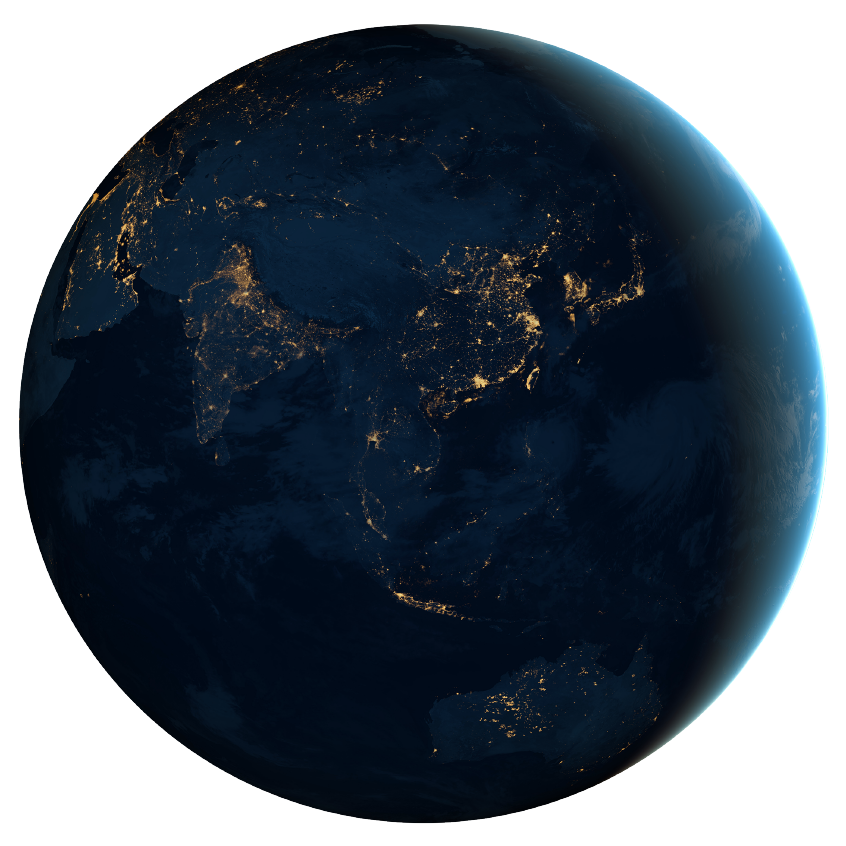
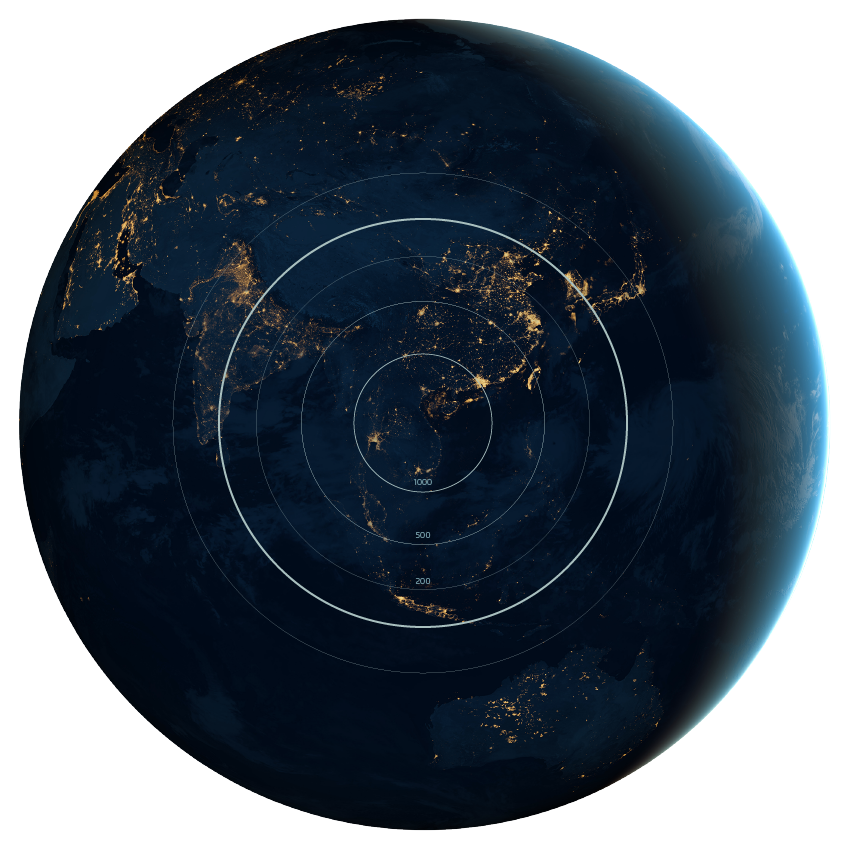
finish v1.0

diff --git a/components/pages/datacenter/datacenter.js b/components/pages/datacenter/datacenter.js
@@ -67,7 +67,7 @@ module.exports = {
                 device_running: params.device_running,
                 device_stop: params.device_stop,
                 device_broken: params.device_broken,
-                energy: params.energy,
+                energy:parseFloat(params.energy).toFixed(1),
                 unit_engergy: params.unit_engergy,
                 airC_engergy: params.airC_engergy
             };
@@ -84,6 +84,7 @@ module.exports = {
                 { src: __uri('./img/industry/chuanbo.png'), name: '船舶' },
                 { src: __uri('./img/industry/guidaojiaotong.png'), name: '轨道运输' },
                 { src: __uri('./img/industry/jiudian.png'), name: '酒店' },
+                  { src: __uri('./img/industry/other.png'), name: '其它' },
             ];
 
             // 设备类型应用
@@ -99,6 +100,7 @@ module.exports = {
                 { src: __uri('./img/devicetype/shipinanfang.png'), name: '视频安防' },
                 { src: __uri('./img/devicetype/tongpaifeng.png'), name: '通排风' },
                 { src: __uri('./img/devicetype/menjin.png'), name: '门禁' },
+                  { src: __uri('./img/industry/other.png'), name: '其它' },
             ];
 
             var tpl = __inline('datacenter.handlebars');
@@ -123,7 +125,7 @@ module.exports = {
             var left = new dashchart({
                 domId: "left_dash",
                 subred: subcolor,
-                label: "设备", value: dtotal, total: params.devicenum, unit: "个",
+                label: "设备总数", value: dtotal, total: params.devicenum, unit: "个",
                 sublabel: "完好率", subvalue: params.device_good_rate, subunit: "%"
             });
             var ttotal = params.device_load * params.device_load_rate / 100;
@@ -135,7 +137,7 @@ module.exports = {
             var right = new dashchart({
                 domId: "right_dash",
                 subred: subcolor,
-                label: "负荷", value: ttotal, total: params.device_load, unit: "kw",
+                label: "当前负荷", value: ttotal, total: params.device_load, unit: "kw",
                 sublabel: "负载率", subvalue: params.device_load_rate, subunit: "%"
             });
         }

diff --git a/components/pages/datacenter/modules/dashchart.js b/components/pages/datacenter/modules/dashchart.js
@@ -143,7 +143,7 @@ dashChart.prototype.drawText = function (r, circleColor) {
         fill: "#387A84",
         "text-anchor": "middle"
     });
-    r.text(option.width / 2 + 75, option.height / 2 - 20, option.unit).attr({
+    r.text(option.width / 2 + 78, option.height / 2 - 20, option.unit).attr({
         font: "12px 微软雅黑, Arial",
         fill: "#387A84",
         "text-anchor": "middle"
@@ -155,7 +155,7 @@ dashChart.prototype.drawText = function (r, circleColor) {
     });
 
     // sub data
-    r.text(option.width / 2 - 30, option.height / 2 + 32 + 20, option.sublabel).attr({
+    r.text(option.width / 2 - 25, option.height / 2 + 32 + 20, option.sublabel).attr({
         font: "12px 微软雅黑, Arial",
         fill: "#387A84",
         "text-anchor": "middle"
@@ -164,12 +164,12 @@ dashChart.prototype.drawText = function (r, circleColor) {
     if (option.subred) {
         subcolor = "#FF0000";
     }
-    r.text(option.width / 2 + 15, option.height / 2 + 32 + 20, parseFloat(option.subvalue).toFixed(2)).attr({
+    r.text(option.width / 2 + 15, option.height / 2 + 32 + 20, parseFloat(option.subvalue).toFixed(1)).attr({
         font: "14px 微软雅黑, Arial",
         fill: subcolor,
         "text-anchor": "middle"
     });
-    r.text(option.width / 2 + 45, option.height / 2 + 52, option.subunit).attr({
+    r.text(option.width / 2 + 40, option.height / 2 + 52, option.subunit).attr({
         font: "12px 微软雅黑, Arial",
         fill: "#387A84",
         "text-anchor": "middle"

diff --git a/components/pages/datacenter/datacenter.css b/components/pages/datacenter/datacenter.css
@@ -1,4 +1,3 @@
-
 .earth{
     z-index: -1;
     width: 35%;
@@ -174,8 +173,8 @@ flex: 1;
 
 
 /**雷达动画css http://codepen.io/yisi/pen/LVMmQy*/
-.radar {
-  background: url(http://gtms03.alicdn.com/tps/i3/TB1Vet9IVXXXXbuapXXb2YSIVXX-567-567.png) no-repeat 50% 50%;
+/*.radar {
+  background: url(./img/earth.png) no-repeat 50% 50%;
   width: 250px;
   z-index: 1024;
   height: 250px;
@@ -185,7 +184,42 @@ flex: 1;
   top: 42%;
   margin-left: -142px;
   margin-top: -142px;
+}*/
+
+.radar-div{
+   background: url(./img/earth.png) no-repeat 50% 50%;
+    width: 500px;
+    z-index: 1;
+    height: 500px;
+    background-size: 500px 500px;
+    position: absolute;
+    left: 50%;
+    top: 42%;
+    margin-left: -250px;
+    margin-top: -250px;
 }
+.inner-circle{
+  width: 10px;height: 10px;
+  background: #a8bfbe;
+  border-radius: 50%;
+  position: absolute;
+  left: 50%;
+  top: 50%;
+  bottom: 10%;
+  margin-left: -5px;
+  margin-top: -5px;
+}
+.radar {
+  width: 306px;
+  height: 306px;
+  position: absolute;
+  left: 50%;
+  top: 50%;
+  bottom: 10%;
+  margin-left: -153px;
+  margin-top: -153px;
+}
+
 
 .radar .pointer {
   position: absolute;
@@ -224,7 +258,7 @@ flex: 1;
   bottom: 11%;
   margin: auto;
   border-radius: 9999px;
-  box-shadow: 0 0 66px 6px rgba(0, 231, 244, 0.6);
+  box-shadow: 0 0 26px 3px rgba(0, 231, 244, 0.6);
   -webkit-animation: shadow 1s infinite ease;
           animation: shadow 1s infinite ease;
 }
